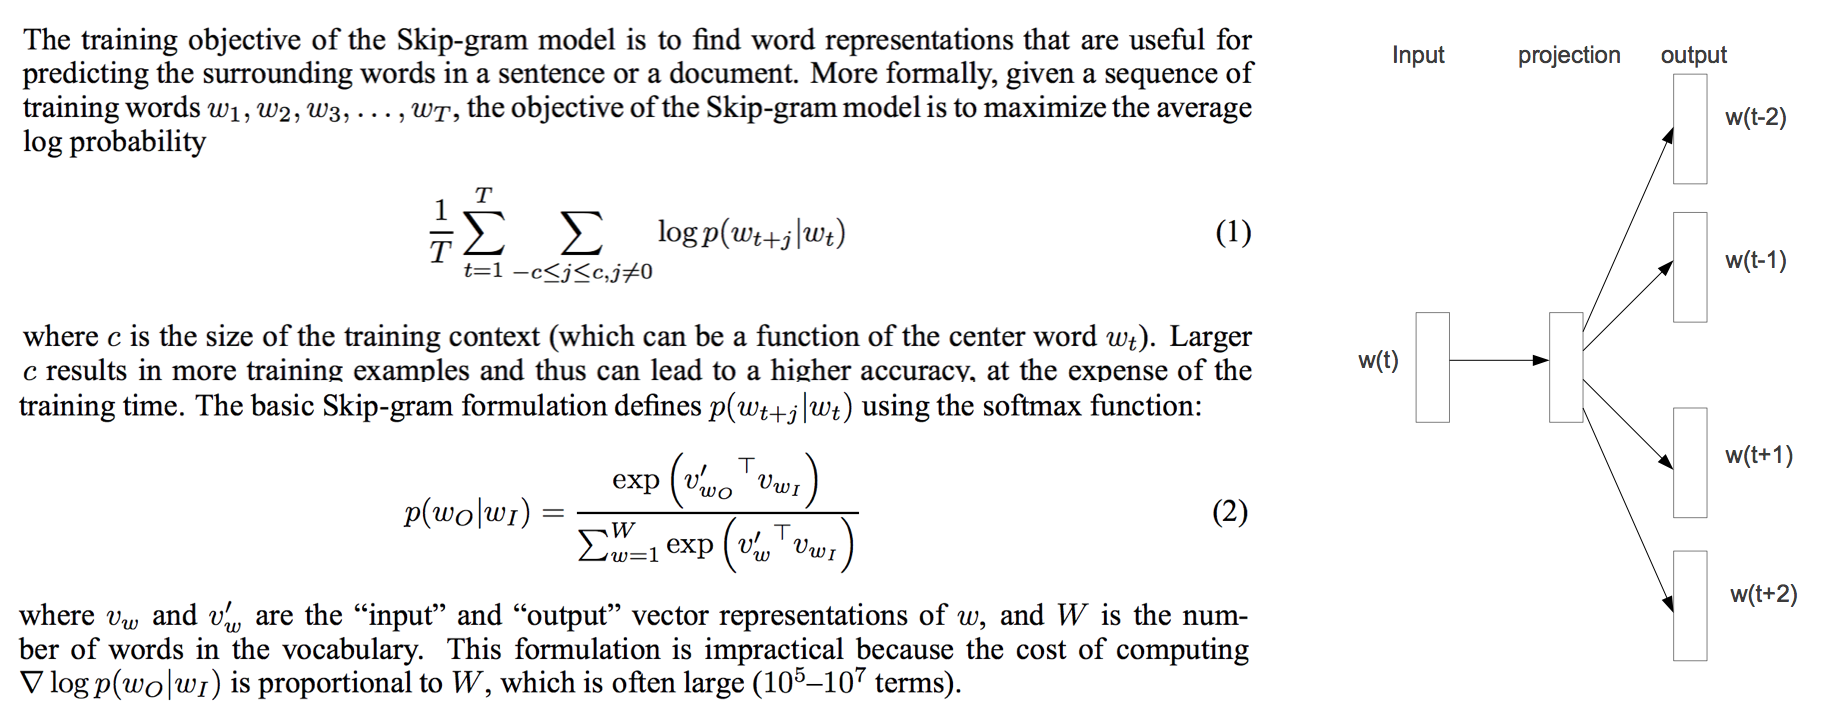
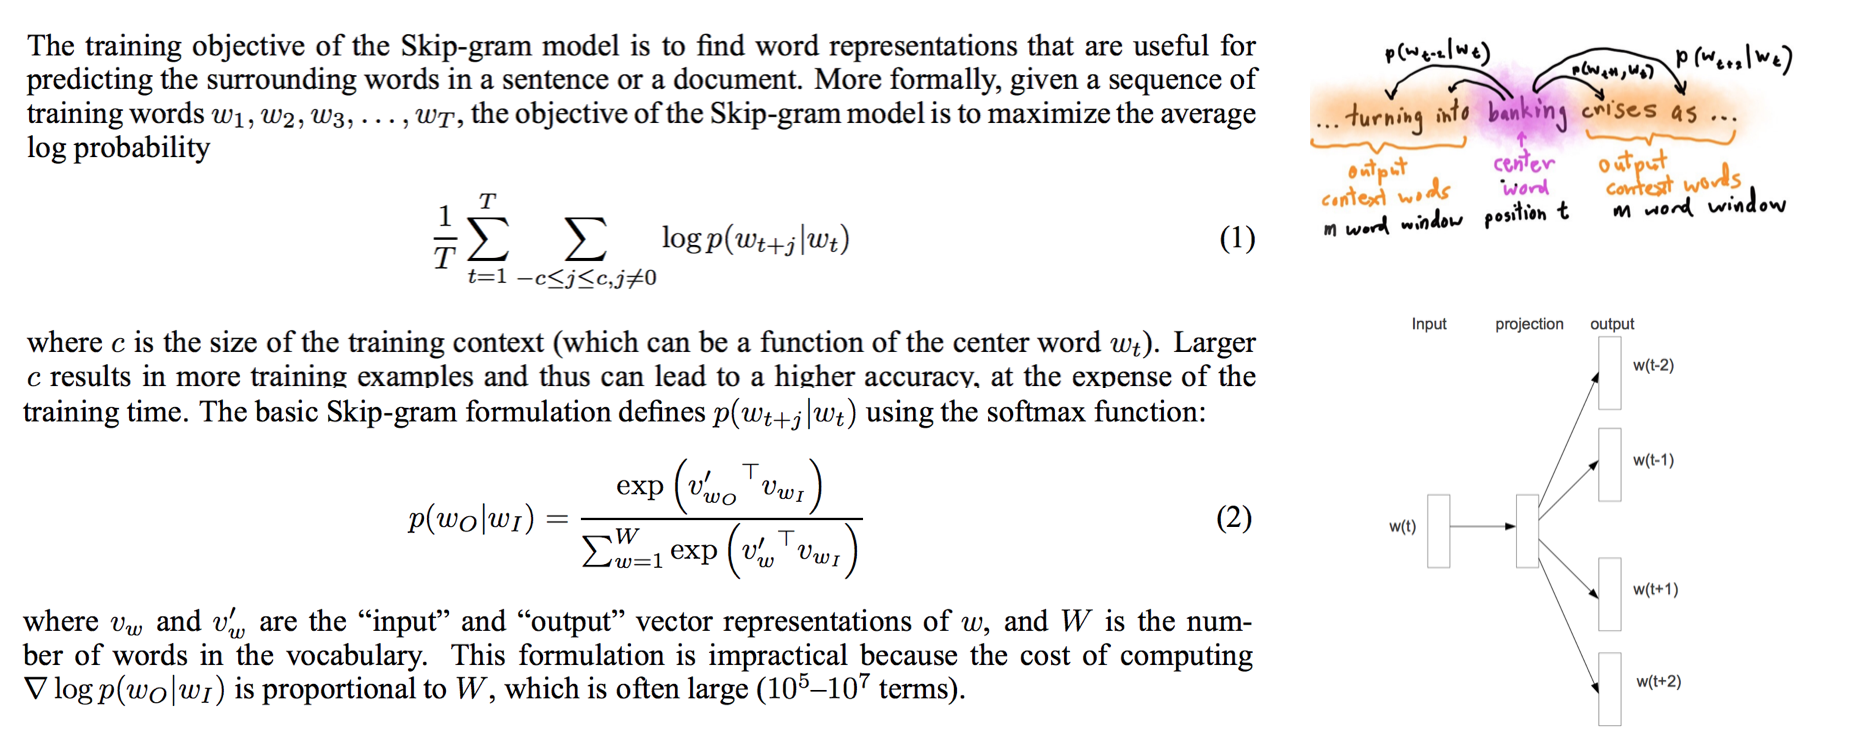
[Log Progress] word_embedding.md

diff --git a/concepts/word_embeddings.md b/concepts/word_embeddings.md
@@ -4,6 +4,8 @@ _Notes below are adapted from Stanford's CS 224N notes, all rights belong to the
 
 ## Table of Contents
 
+* [Word Representation](https://github.com/robert8138/deep-learning-deliberate-practice/blob/master/concepts/word_embeddings.md#word-representation)
+
 * [Discrete Representation: One-Hot Encoding](https://github.com/robert8138/deep-learning-deliberate-practice/blob/master/concepts/word_embeddings.md#discrete-representation-one-hot-encoding)
 
 * [Distributional Representation: Word Embeddings using Word2Vec](https://github.com/robert8138/deep-learning-deliberate-practice/blob/master/concepts/word_embeddings.md#distributional-representation-word-embeddings-using-word2vec)
@@ -15,23 +17,31 @@ _Notes below are adapted from Stanford's CS 224N notes, all rights belong to the
 	* [Co-occurrence Matrix](https://github.com/robert8138/deep-learning-deliberate-practice/blob/master/concepts/word_embeddings.md#co-occurrence-matrix)
 	* [Global Vectors](https://github.com/robert8138/deep-learning-deliberate-practice/blob/master/concepts/word_embeddings.md#global-vectors-glove)
 		* [Prior Work](https://github.com/robert8138/deep-learning-deliberate-practice/blob/master/concepts/word_embeddings.md#prior-work)
-		* [GloVe]()
+		* [Issues](https://github.com/robert8138/deep-learning-deliberate-practice/blob/master/concepts/word_embeddings.md#issues)
+		* [GloVe](https://github.com/robert8138/deep-learning-deliberate-practice/blob/master/concepts/word_embeddings.md#glove)
 
-* [Visualization of Embeddings]
-* [Evaluation of Embeddings]
+* [Evaluation of Embeddings](https://github.com/robert8138/deep-learning-deliberate-practice/blob/master/concepts/word_embeddings.md#evaluation-of-embeddings)
+
+* [Visualization of Embeddings](https://github.com/robert8138/deep-learning-deliberate-practice/blob/master/concepts/word_embeddings.md#visualizing-embeddings)
+	* [Dimension Reduction Techniques]()
+	* [How to use t-SNE effectively]()
+
+## Word Representation
+
+![Word Embedding Definition](pictures/word_embedding_def.png)
 
 ## Discrete Representation: One-Hot Encoding
 
 Word representation are the foundation of any statistical NLP algorithms. Historically, many of the NLP tasks represent word tokens using [one-hot encoding](http://scikit-learn.org/stable/modules/generated/sklearn.preprocessing.OneHotEncoder.html). In this encoding scheme, we first take a text corpus, extract a **bag of words** ("bag" is to denote that the ordering of the words are lost), and then encode each word in the bag as a vector by setting the element position of our target word to be 1, and 0 elsewhere. For unseen words, we will often encode a new word token in the bag as `<unkonwn>`.
 
-Problems with one-hot encoding:
+This one-hot encoding representation, although intuitive, has some serious shortfalls:
 
 * The dimensionality of the one-hot encoded vectors can be enormous (dimension = cardinality of the bag of words)
 * There is no natural notion of similarity for words that are similar / disimilar. The dot product of the word vectors will all be 0.
 
 ![One Hot Encoding](pictures/one_hot_encoding.png)
 
-Sometimes people would attempt to use **featurized word representation**, but this is often limited because we need to explicitly define what each element in the vector representation captures (i.e. they are not learned). However, this approach motivates distributional representation of words.
+Sometimes people would attempt to use **featurized word representation**, but this is often limited because we need to explicitly define what each element in the vector representation captures (i.e. they are not learned). However, this approach motivates the use of distributional representation of words, and this is where Deep Learning comes in.
 
 ## Distributional Representation: Word Embeddings using Word2Vec
 
@@ -43,11 +53,11 @@ The idea behind distributional representation of a word can be summarized by the
 
 Distributed representations of words in a vector space help learning algorithms to achieve better performance in natural language processing tasks by grouping similar words. This idea has since been applied to statistical language modeling with considerable success to applications such as automatic speech recognition, machine translation, and a wide range of NLP tasks.
 
-The basic idea beyond distributed representation is simple - we can represent a word really well by the words surrounding it. The advantage of this learned representation is that words that are similar to each other will have high (say, cosine) similarity, and words that are disimilar would be far away from each other. Furthermore, the user has controls on what should be the dimensionality of the word representation (often low). We commonly referred to these learned word representation **Word Embeddings**.
+The basic idea beyond distributed representation is simple - we can represent a word really well by the words surrounding it. The advantage of this learned representation is that words that are similar to each other will have high (say, cosine) similarity, and words that are disimilar would be far away from each other. Furthermore, the user has controls on what should be the dimensionality of the word representation (often low). We commonly referred to these learned word representation as **Word Embeddings**.
 
 ### Word2Vec
 
-The name Word2Vec come from the fact that for each word (`Word`), we are learning a word representation where the word can be represented as a vector (`Vec`). The way that Jeremy Howard put it is that word embeddings are like a **look-up table**: given a key that is a word token, the embedding matrix will return you a word embedding vector.
+Word2Vec has been one of the most popular algorithms to learn word embeddings, the name came from the fact that for each word (`Word`), we are learning a word representation where the word can be represented as a vector (`Vec`). There are typically two formulation for Word2Vec: Continuous Bag of Words (CBOW), and Skip-Gram (SG), we will focus on the latter.
 
 ### Skip-Gram (SG) Model
 
@@ -55,7 +65,7 @@ The name Word2Vec come from the fact that for each word (`Word`), we are learnin
 
 ![Skip Gram Model](pictures/skip_gram_model.png)
 
-**Important Intuition**: because of the softmax function, words that co-occur within the "radius" would have higher probability - this also means that the dot product of the co-occuring words will be high, which effectively is the cosine similarity of two vectors (when they both have norm 1). This learning algorithm therefore **force co-occuring words to have high similarity**.
+**Important Intuition**: because of the softmax function and the loss function formulation (see below), words that co-occur within the "radius" would be learned to have higher probability - this also means that the dot product of the co-occuring words will be high, which effectively is the cosine similarity of two vectors (when both vectors have norm 1). This learning algorithm therefore **force co-occuring words to have high similarity**.
 
 **Note**: From the above formula is that the parameters of the model we are trying to learned are the two pairs of embeddings: one embeddings for the context word (`o`) and another one for embeddings for the target word (`t`). In other words, every word has two vectors!
 
@@ -63,7 +73,7 @@ Below is an illustration of how we compute the loss function of this Skip-Gram w
 
 ![Word2Vec in Action](pictures/word2vec_in_action.png)
 
-With the loss function and optimization set up, we can start taking derivatives of the loss function w.r.t to the embeddings. Details of this derivation can be found from [CS 224 lecture notes](). You can also watch the [video lecture]() from Professor Manning.
+With the loss function and optimization set up, we can start taking derivatives of the loss function w.r.t to the embeddings. Details of this derivation can be found from [CS 224 lecture notes](http://web.stanford.edu/class/cs224n/archive/WWW_1617/lectures/cs224n-2017-lecture2.pdf). You can also watch the [video lecture](https://www.youtube.com/watch?v=ERibwqs9p38&index=2&list=PL3FW7Lu3i5Jsnh1rnUwq_TcylNr7EkRe6) from Professor Manning.
 
 ### Negative Sampling
 
@@ -79,27 +89,86 @@ Typically, the sampling probability distribution takes the unigram distribution,
 
 ### Co-occurrence Matrix
 
-The intuition behind Word2Vec is to capture **co-occurence** of pairs of words, so why not directly capture co-occurrence count? We can achieve this by using Window-based co-occurrence matrix. The window size is a parameter that can be tuned, and the matrix is symmetric. 
-
-One problem with using the window-based co-occurrence matrix is that this matrix increases with the size of the vocabulary. It's very high dimensional and suffers from sparsity issues. One way to combat this is to leverage matrix decomposition such as SVD to store most of the information in a "fixed", small number of dimensions. This works, but with great computational burden (cost scales quadratically for a `n x m` matrix). 
+The intuition behind Word2Vec is to capture **co-occurence** of pairs of words, so why not directly capture co-occurrence count? We can achieve this by using Window-based co-occurrence matrix. The window size is a parameter that can be tuned, and the matrix is symmetric. One problem with using the window-based co-occurrence matrix is that this matrix increases with the size of the vocabulary. It's very high dimensional and suffers from sparsity issues. One way to combat this is to leverage matrix decomposition such as SVD to store most of the information in a "fixed", small number of dimensions. This works, but with great computational burden (cost scales quadratically for a `n x m` matrix). 
 
 ### Global Vectors (GloVe)
 
+[Pennington, Socher, and Manning](https://www.aclweb.org/anthology/D14-1162) developed GloVe: a new global logbilinear regression model that combines the advantages of the two major model families that we mentioned above: local context window methods and global matrix factorization. This model efficiently leverages statistical information by training only on the nonzero elements in a word-word cooccurrence matrix, rather than on the entire sparse matrix or on individual context windows in a large corpus. The model produces a vector space with meaningful substructure. It's called GloVe because this model directly captures global statistics of the corpus used for the unsupervised learning exercise.
+
 #### Prior Work
 
-[Pennington, Socher, and Manning](https://www.aclweb.org/anthology/D14-1162) developed GloVe: a new global logbilinear regression model that combines the advantages of the two major model families in the literature: global matrix factorization and local context window methods. This model efficiently leverages statistical information by training only on the nonzero elements in a word-word cooccurrence matrix, rather than on the entire sparse matrix or on individual context windows in a large corpus. The model produces a vector space with meaningful substructure. [Section 2](https://www.aclweb.org/anthology/D14-1162) of the paper summarized related work and how it motivated GloVe:
+[Section 2](https://www.aclweb.org/anthology/D14-1162) of the paper summarized related work and how it motivated GloVe:
 
 * **Matrix Factorization Methods**: Matrix factorization methods for generating low-dimensional word representations have roots stretching as far back as LSA. These methods utilize low-rank approximations to decompose large matrices that capture statistical information about a corpus. The particular type of information captured by such matrices varies by application. In LSA, the matrices are of “term-document” type, i.e., the rows correspond to words or terms, and the columns correspond to different documents in the corpus. 
 
 * **Shallow Window-Based Methods**: Another approach is to learn word representations that aid in making predictions within local context windows. Works from Bengio (2003)  introduced a model that learns word vector representations
 as part of a simple neural network architecture for language modeling. Recently, the importance of the full neural network structure for learning useful word representations has been called into question. The skip-gram and continuous bag-of-words (CBOW) models of Mikolov et al. (2013a) propose a simple single-layer architecture based on the inner product between two word vectors.
 
+#### Issues
+
 A main problem with LSA and related methods is that the most frequent words contribute a disproportionate amount to the similarity measure. Unlike the matrix factorization methods, the shallow window-based methods suffer from the
 disadvantage that they do not operate directly on the co-occurrence statistics of the corpus. Instead, these models scan context windows across the entire corpus, which fails to take advantage of the vast amount of repetition in the data.
 
+![Count Based v.s. Direct Prediction](pictures/count_based_vs_direct_prediction.png)
+
 #### GloVe
 
+GloVe take inspiration from both matrix factorization methods (low-rank approximations) as well as window-based methods to learn word embeddings. The best explanation that draws the connection is from [section 3.1 Relationship to Other Models](https://www.aclweb.org/anthology/D14-1162), where the authors explained how window-based methods can be re-arrange similar to its current form.
+
+![GloVe](pictures/glove.png)
+
+It's also worth noting that GloVc trains matrix `U` and `V`, both captures co-occurrence information. It turns out that the best solution is to use `X_final = U + V`.
 
 
-* Traditional Word Representation
-	* [Colab's Explanation on Word Embeddings](https://colah.github.io/posts/2014-07-NLP-RNNs-Representations/)
+### Evaluation of Embeddings
+
+There are typically two ways to evaluate word embeddings in NLP: **Intrinsic** v.s. **Extrinsic** evaluations.
+
+* **Intrinsic**
+	* Evaluation on a specific/intermediate subtask (e.g. word analogy / word vector distances and their correlation with human judgments)
+	* Fast to compute
+	* Helps to understand that system
+	* Not clear if really helpful unless correlated to real task is established
+
+![Word Analogy](pictures/word_analogy.png)
+
+* **Extrinsic**
+	* Evaluation on a real task (e.g. name entity recognition, finding a person, organization or location)
+	* Can take longer time to compute
+	* Unclear if the subsystem is the problem or its interaction or other subsystems
+	* If replacing exactly one subsystem with another improve accuracy -> winning!
+
+### Visualizing Embeddings
+
+#### Dimension Reduction Techniques
+
+olah's [blog post on dimension reduction techniques (no math)](http://colah.github.io/posts/2014-10-Visualizing-MNIST/).
+
+* Multi-dimensional Scaling
+* 
+* t-SNE 
+
+#### How to use t-SNE effectively
+
+_This section is based on [how to use t-SNE effectively](https://distill.pub/2016/misread-tsne/)_
+
+A popular method for exploring high-dimensional data is something called **t-SNE**, introduced by van der Maaten and Hinton in 2008 [1]. The technique has become widespread in the field of machine learning, since it has an almost magical ability to create compelling two-dimensonal “maps” from data with hundreds or even thousands of dimensions. 
+
+Before diving in: if you haven’t encountered t-SNE before, here’s what you need to know about the math behind it. The goal is to take a set of points in a high-dimensional space and find a faithful representation of those points in a lower-dimensional space, typically the 2D plane. The algorithm is non-linear and adapts to the underlying data, performing different transformations on different regions.
+
+* Those hyperparameters really matter
+	* Perpelexity: (loosely) says how to balance attention between local and global aspects of your data. The parameter is, in a sense, a guess about the number of close neighbors each point has. The perplexity value has a complex effect on the resulting pictures.
+	* Number of Steps: If you see a t-SNE plot with strange “pinched” shapes, chances are the process was stopped too early, and you should run it for a larger number of steps.
+
+* Cluster sizes in a t-SNE plot mean nothing
+	* t-SNE algorithm adapts its notion of “distance” to regional density variations in the data set. As a result, it naturally expands dense clusters, and contracts sparse ones, evening out cluster sizes.
+	* The bottom line, however, is that you cannot see relative sizes of clusters in a t-SNE plot.
+
+* Distances between clusters might not mean anything
+	* The post gave a very good example that when perplexity is too low, t-SNE might not be able to capture the global structure. For example, if a cluster is 5 times away from the other clusters, for lower perplexity values the clusters look equidistant. When the perplexity is 100, we see the global geometry fine.
+	* We can't always set perplexity to be a fixed high number, because we can lose local structure. Furthermore, perplexity really also depends on how many points you have per cluster.
+
+* Random noise doesn’t always look random
+	* When perplexity is too low, you can force local structure or clumps that are not random at all, so you are seeing patterns in what is really just random data
+
+There’s a reason that t-SNE has become so popular: it’s incredibly flexible, and can often find structure where other dimensionality-reduction algorithms cannot. Unfortunately, that very flexibility makes it tricky to interpret. Out of sight from the user, the algorithm makes all sorts of adjustments that tidy up its visualizations. Don’t let the hidden “magic” scare you away from the whole technique, though. The good news is that by studying how t-SNE behaves in simple cases, it’s possible to develop an intuition for what’s going on.

diff --git a/README.md b/README.md
@@ -67,6 +67,7 @@ A few words on why I choose to focus on Keras (for now): Rachel Thomas summarize
 	* [Yes, you should understand backprop](https://medium.com/@karpathy/yes-you-should-understand-backprop-e2f06eab496b)
 
 * [Colab](http://colah.github.io/): His intuitive explanation of DL topics are very well regarded, and something that I plan to revisit from time to time.
+	* [Deep Learning & Representation]((https://colah.github.io/posts/2014-07-NLP-RNNs-Representations/))
 
 * [Distill.pub](https://distill.pub/): The web is a powerful medium to share new ways of thinking. Over the last few years we’ve seen many imaginative examples of such work. But traditional academic publishing remains focused on the PDF, which prevents this sort of communication.
 
